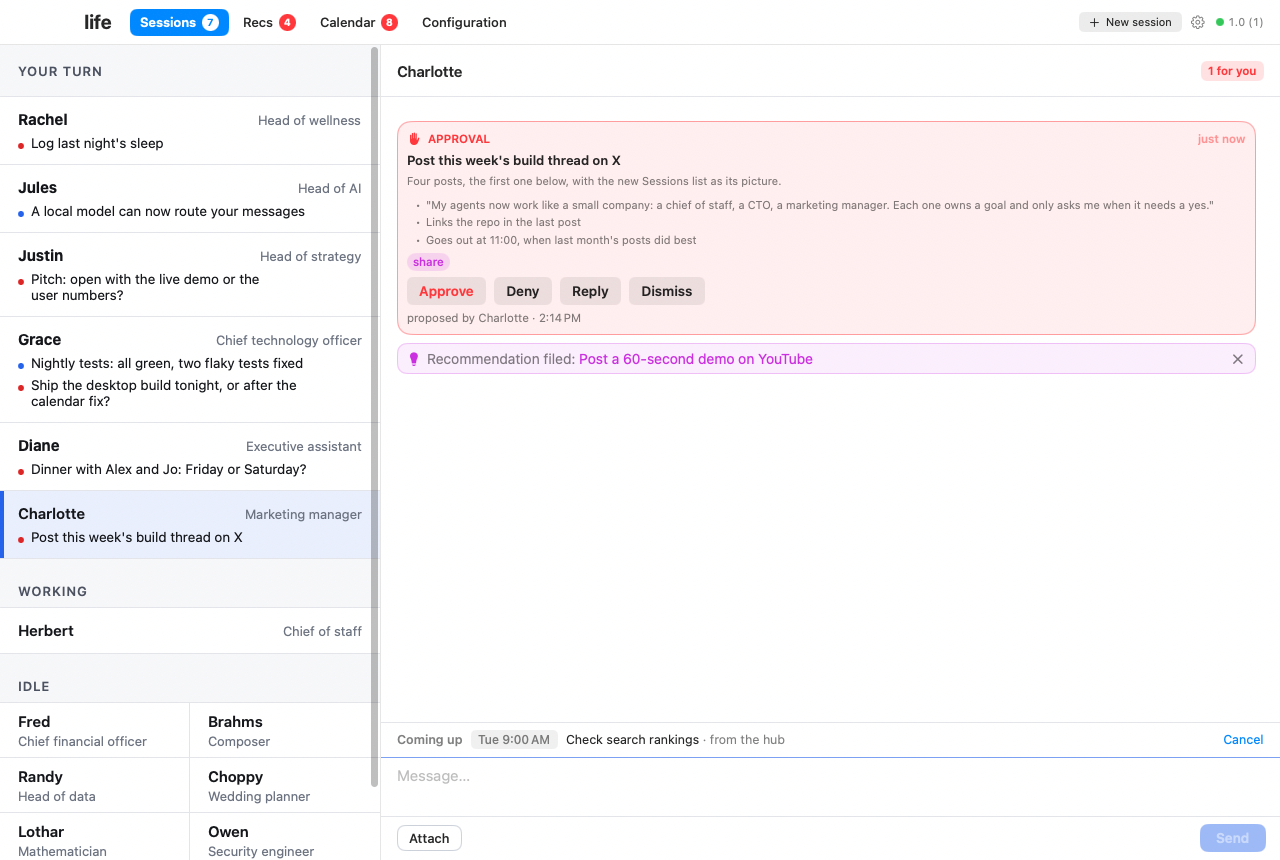
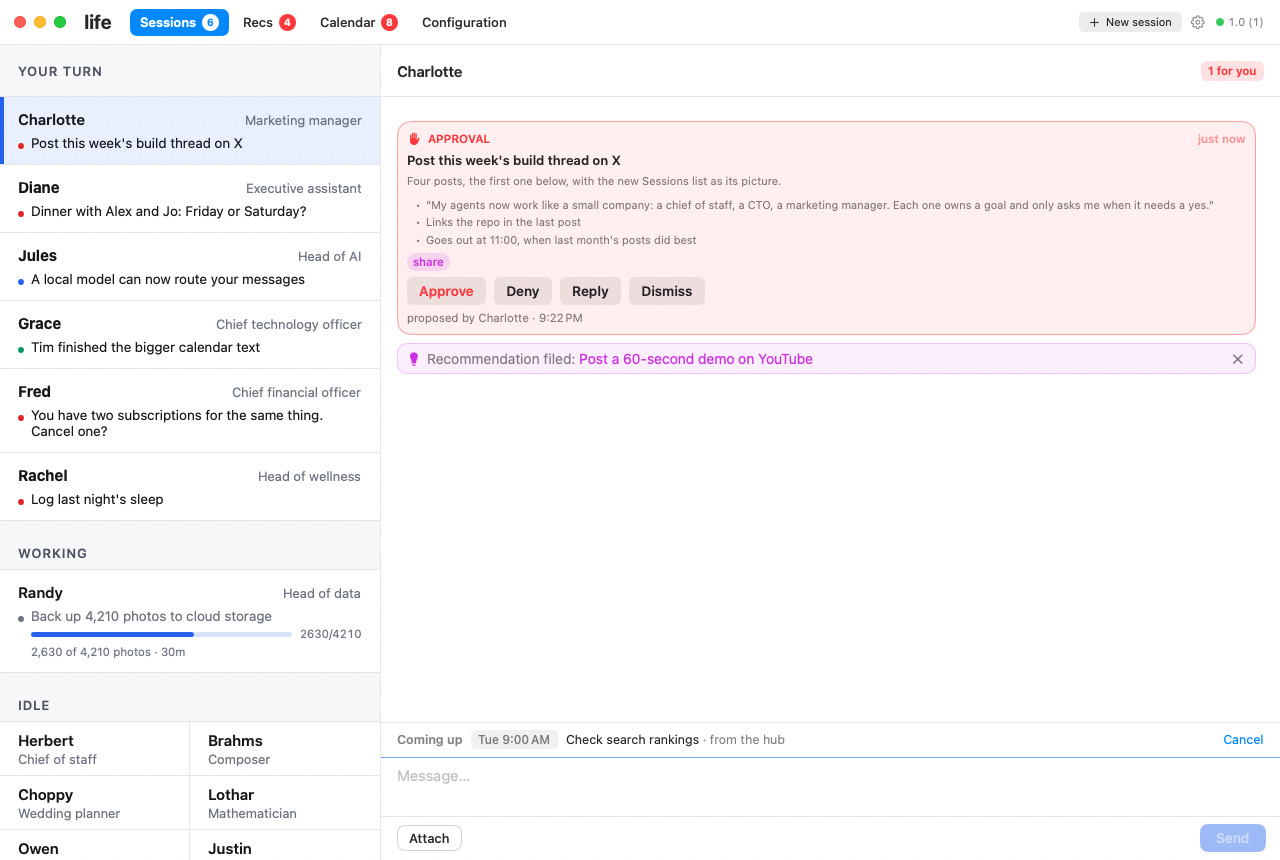
README pass: copy, Necessary costs, new desktop and iPhone shots

diff --git a/README.md b/README.md
@@ -23,6 +23,10 @@ download. **You need** a Mac that stays on, a
 [Apple Developer membership][apple-dev] ($99 a year, only for the iPhone and
 desktop apps).
 
+*Note: everything below is a starting point and subject to change. The agents
+maintain their own code, so they can change the app's front end or back end in
+whichever way suits you.*
+
 ## Install with one prompt
 
 Open Claude Code on your Mac and paste this:
@@ -38,12 +42,12 @@ in [ADDENDA.md](ADDENDA.md) every week, and your agent brings each one to you.
 
 <table>
 <tr>
-<td width="50%" valign="top"><img src="docs/img/sessions.png" alt="The life desktop app's Sessions list: under Your turn, one row per agent with its title and open cards: Rachel, head of wellness, a sleep log; Jules, head of AI, a local model that can route messages; Justin, head of strategy, how to open a pitch; Grace, chief technology officer, nightly tests and when to ship the desktop build; Diane, executive assistant, a dinner night to pick; Charlotte, marketing manager, a build thread to post on X. Under Working, Herbert, chief of staff. Under Idle, Fred, Brahms, Randy, Choppy, Lothar and Owen"></td>
-<td width="50%" valign="top"><img src="docs/img/configuration.png" alt="The life desktop app's Configuration page: Powered by Claude Code with how much of the 7 day limits is left; Devices, the Mac hub and a phone; the Team org chart: Charlotte, marketing manager; Diane, executive assistant, over Choppy the wedding planner; Fred, chief financial officer; Grace, chief technology officer, over Owen, Randy and Tim; Herbert, chief of staff; Jules, head of AI, over Brahms the composer and Lothar the mathematician; Justin, head of strategy; Rachel, head of wellness; each card marked with the goals it owns; seven goals in Entrepreneurial, Social and Lifestyle; and data sources by goal, like GitHub, Search Console and YouTube for the audience"></td>
+<td width="50%" valign="top"><img src="docs/img/sessions.png" alt="The life desktop app's Sessions list: under Your turn, one row per agent with its open card: Charlotte, marketing manager, a build thread to post on X; Diane, executive assistant, dinner with friends on Friday or Saturday; Jules, head of AI, a local model that can route messages; Grace, chief technology officer, passing on work Tim finished; Fred, chief financial officer, two subscriptions for the same thing; Rachel, head of wellness, a sleep log. Under Working, Randy, whose chat is open on the right with a photo backup running and its progress bar. Under Idle, Herbert, chief of staff, and the rest of the team"></td>
+<td width="50%" valign="top"><img src="docs/img/configuration.png" alt="The life desktop app's Configuration page: Powered by Claude Code with how much of the 7 day limits is left; Devices, the Mac hub and a phone; the Team org chart under you: Herbert, chief of staff, Rachel, head of wellness, and Fred, chief financial officer; then Grace, chief technology officer, over Randy, Owen and Tim, Jules, head of AI, over Brahms the composer and Lothar the mathematician, and Diane, executive assistant, over Choppy the wedding planner; then Charlotte, marketing manager, and Justin, head of strategy; each card marked with the goals it owns; seven goals in Work, Social and Lifestyle; and the data sources for each goal with their logos"></td>
 </tr>
 <tr>
-<td align="center"><strong>Sessions.</strong> Every agent, and what each needs from you.</td>
-<td align="center"><strong>Configuration.</strong> Your team, goals, devices, and data sources.</td>
+<td align="center"><strong>Sessions.</strong> Agents tell you when they need you.</td>
+<td align="center"><strong>Configuration.</strong> Your team, goals, devices, and data.</td>
 </tr>
 </table>
 
@@ -51,33 +55,37 @@ in [ADDENDA.md](ADDENDA.md) every week, and your agent brings each one to you.
 
 You don't need to be technical.
 
-1. Open **Terminal**: press **Cmd-Space**, type `Terminal`, press **Return**.
-2. If you don't have Claude Code yet, install it with
+1. If you don't have Claude Code yet, install it with
    [Anthropic's guide][claude-code-setup].
+2. Open **Terminal**: press **Cmd-Space**, type `Terminal`, press **Return**.
 3. In Terminal, type `claude` and press **Return**. Sign in with your
    Claude account if it asks.
-4. Paste the sentence above and press **Return**.
-5. From here, the agent leads. Do what it says, click where it points.
+4. Give Claude the following prompt and press **Return**:
+   ```
+   Clone github.com/mattabate/life-distributable and set up my life agent. Follow its SETUP.md.
+   ```
+5. Follow the instructions the agent gives you. It will ask what features
+   you want at the start.
 
 ## How it works
 
-- **Calendar.** The agents keep a calendar that stores what they need to do for you, and what you need to do for them.
+- **Calendar.** The agents keep a calendar of what they need to do for you, and you for them.
 - **Roles.** Each agent is a long-running Claude Code session with a role, like chief of staff or CTO.  They pass tasks between one another when some part of their task requires know-how from a different part of the swarm.
 - **Cards, not chat.** By default the chat history isn't displayed. You can only see what the agent needs you to do or wants to tell you in that moment.
 
-All of this is a starting point and subject to change. The agents maintain their own code, so if you don't like how something looks or works, just ask and they can change it from one prompt.
+*All of this is a starting point and subject to change. The agents maintain their own code, so if you don't like how something looks or works, just ask and they can change it from one prompt.*
 
 ## Example app layout
 
 ### Desktop app
 
-| **Approvals.** The agent proposes, you approve. | **Sessions.** It asks one clear question at a time. |
+| **Calendar.** Your steps and the agents' runs. | **Roles.** Agents hand work to each other. |
 |---|---|
-| ![Charlotte, the marketing manager, in the life desktop app: an approval card to post this week's build thread on X, with the first post quoted, tagged share, with Approve, Deny, Reply and Dismiss, a rec she filed, and a search rankings check coming up below](docs/img/approval.png) | ![Grace, the chief technology officer, in the life desktop app: two cards for the Build agent goal, whether to ship the desktop build tonight or after the calendar fix, and a read that the nightly tests are all green, with the 5 PM build run coming up below](docs/img/chat.png) |
+| ![The life desktop app's Calendar on the week of November 8: a morning routine every day, piano harmony homework in the evening, a proof to read, plants to water, a build thread to post, lunch with a friend, a demo to record, the weekly team review, the app update Grace ships on Monday, her release notes to read on Tuesday, the music service to pick and gym days, with overdue, due, do soon and sessions waiting lists](docs/img/calendar.png) | ![Grace, the chief technology officer, in the life desktop app, speaking aloud: a card telling you Tim, one of her engineers, finished the bigger calendar text and it is in tomorrow's update, with the 5 PM app update coming up below](docs/img/chat.png) |
 
-| **Recs.** Suggestions with evidence and a price. | **Calendar.** Your steps and the agent's runs. |
+| **Cards.** The agent proposes, you approve. | **Cards.** A running job shows its progress. |
 |---|---|
-| ![The Recs page of the life desktop app: Rachel's blackout curtains for $89, Jules's switch to a free local model for routing, Justin's demo at a spring AI builders night, each naming who filed it, with its reason and Accept, Decline or a reply to that agent](docs/img/recs.png) | ![The life desktop app's Calendar on a week: a morning routine every day, piano harmony homework each evening, a proof to read every other morning, plants to water, a build thread to post, a demo to record, the desktop build to ship, a weekly team review, a pitch at an AI meetup and gym days, with overdue, due, do soon and sessions waiting lists](docs/img/calendar.png) |
+| ![Charlotte, the marketing manager, in the life desktop app: an approval card to post this week's build thread on X, with the first post quoted, tagged share, with Approve, Deny, Reply and Dismiss, a rec she filed, and a search rankings check coming up below](docs/img/approval.png) | ![The life desktop app's Sessions list with Randy's chat open: an approved backup of 4,210 photos to cloud storage, running, its progress bar past halfway](docs/img/sessions.png) |
 
 ### iPhone app
 
@@ -88,9 +96,9 @@ All of this is a starting point and subject to change. The agents maintain their
 <th align="left"><strong>Calendar.</strong> Your day at a glance.</th>
 </tr>
 <tr>
-<td valign="top"><img src="docs/img/phone-approval.png" alt="The life iPhone app: Charlotte, the money manager, in chat with an approval card to buy $500 of VTI on Thursday, cash staying above a $2,000 floor, with Approve, Deny, Reply and Dismiss buttons"></td>
-<td valign="top"><img src="docs/img/phone-sessions.png" alt="The life iPhone app Sessions tab: Your turn, 5 cards in 4 sessions, one row per agent: Sam's water filter to swap, Rachel's Lisbon hotels to read, Fred's sleep log and long run day, Charlotte's buy to approve, and Diane booking a dentist cleaning"></td>
-<td valign="top"><img src="docs/img/phone-calendar.png" alt="The life iPhone app Calendar tab on the Day view: an easy run at 7, the farmers market at 10, a water filter swap, reviewing the month's spending at 4 and picking up dry cleaning"></td>
+<td valign="top"><img src="docs/img/phone-approval.png" alt="The life iPhone app: Charlotte, the marketing manager, in chat with an approval card to post this week's build thread on X, the first post quoted, tagged share, with Approve, Deny, Reply and Dismiss buttons, a rec she filed, and a search rankings check coming up"></td>
+<td valign="top"><img src="docs/img/phone-sessions.png" alt="The life iPhone app Sessions tab: Your turn, 6 cards in 6 sessions, one row per agent: Charlotte's build thread to approve, Diane's dinner night to decide, Jules's local model to read, Grace speaking Tim's finished work aloud, and Fred's two subscriptions below"></td>
+<td valign="top"><img src="docs/img/phone-calendar.png" alt="The life iPhone app Calendar tab on November 8: the passport to renew, overdue, then seven items due today: the morning routine, plants to water at 9, the build thread to post at 11, lunch with a friend at 12:30, the demo to record at 3, a piano harmony exercise at 7 and lights out at 11"></td>
 </tr>
 </table>
 
@@ -100,13 +108,13 @@ The screenshots are the real apps on a demo hub with made-up people and plans.
 
 Every cost below goes to an outside service. Nothing goes to me.
 
-| What | Cost | Needed for |
-|---|---|---|
-| [Claude Pro or Max][claude-pricing] | $20, $100 or $200 a month | Everything. Max is better for an always-on agent |
-| [Apple Developer Program][apple-dev] | $99 a year | Only the iPhone app and the desktop app. Web only? Skip it |
-| [Tailscale](https://tailscale.com/pricing) | free | Reaching your hub privately from your phone and laptops |
-| [Backblaze B2](https://www.backblaze.com/cloud-storage/pricing) | cents a month | Nightly encrypted backup |
-| A Mac on macOS 15 or later | the one you own | The hub |
+| What | Necessary? | Cost | Needed for |
+|---|---|---|---|
+| [Claude Pro or Max][claude-pricing] | Required | $20, $100 or $200 a month | Everything. Max is better for an always-on agent |
+| A Mac on macOS 15 or later | Required | the one you own | The hub |
+| [Tailscale](https://tailscale.com/pricing) | Required | free | Reaching your hub privately from your phone and laptops |
+| [Apple Developer Program][apple-dev] | Optional | $99 a year | Only the iPhone app and the desktop app. Web only? Skip it |
+| [Backblaze B2](https://www.backblaze.com/cloud-storage/pricing) | Recommended | cents a month | Nightly encrypted backup |
 
 ## Setup, in order
 
